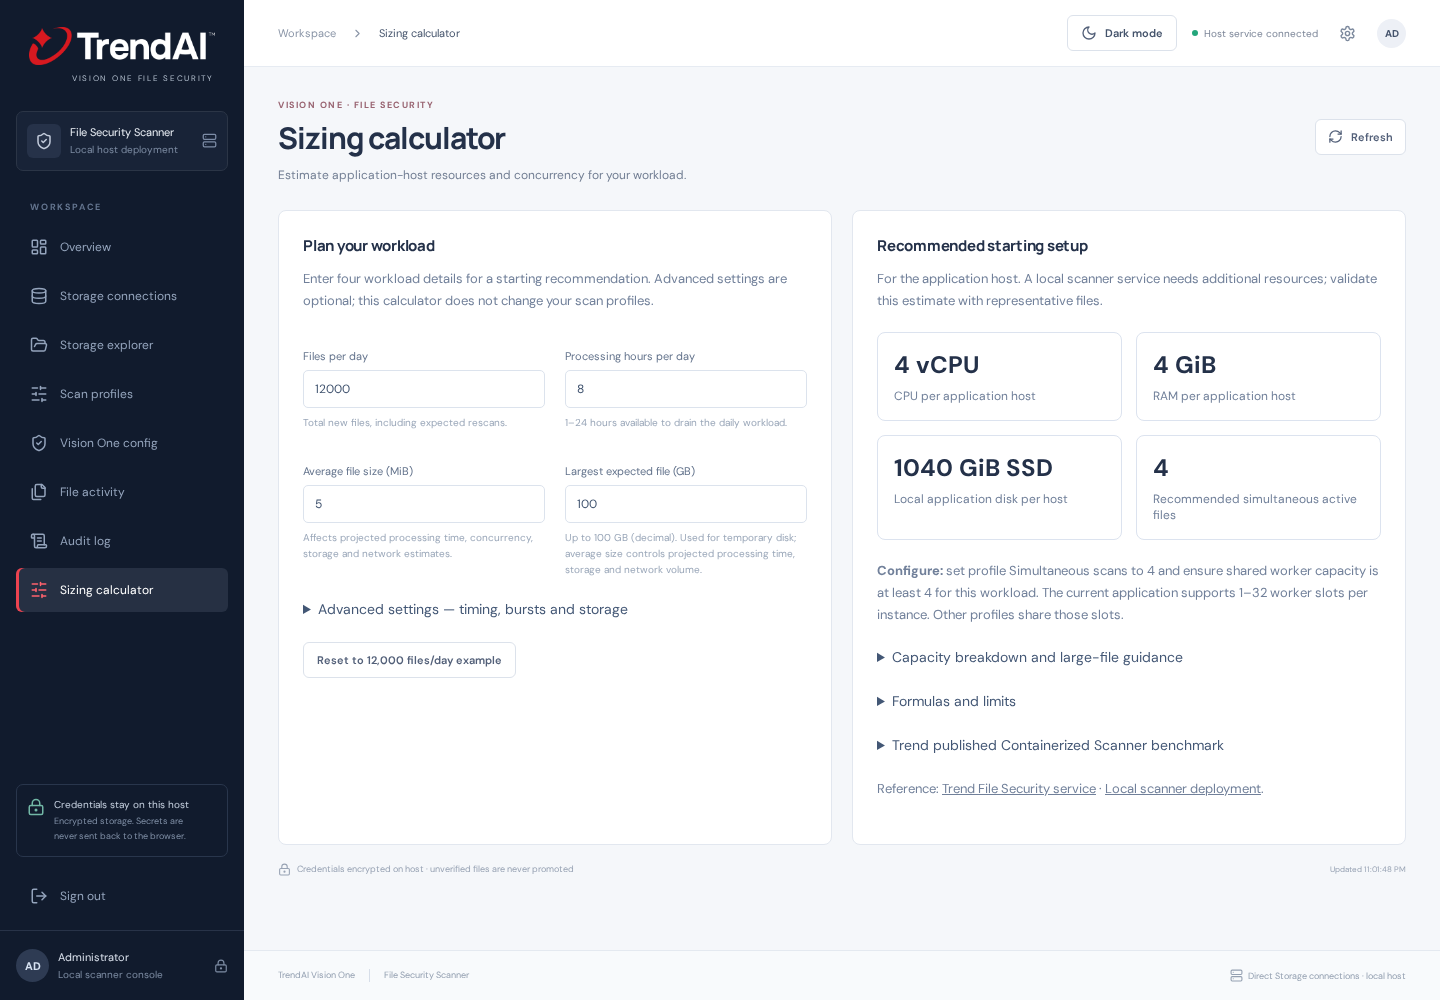
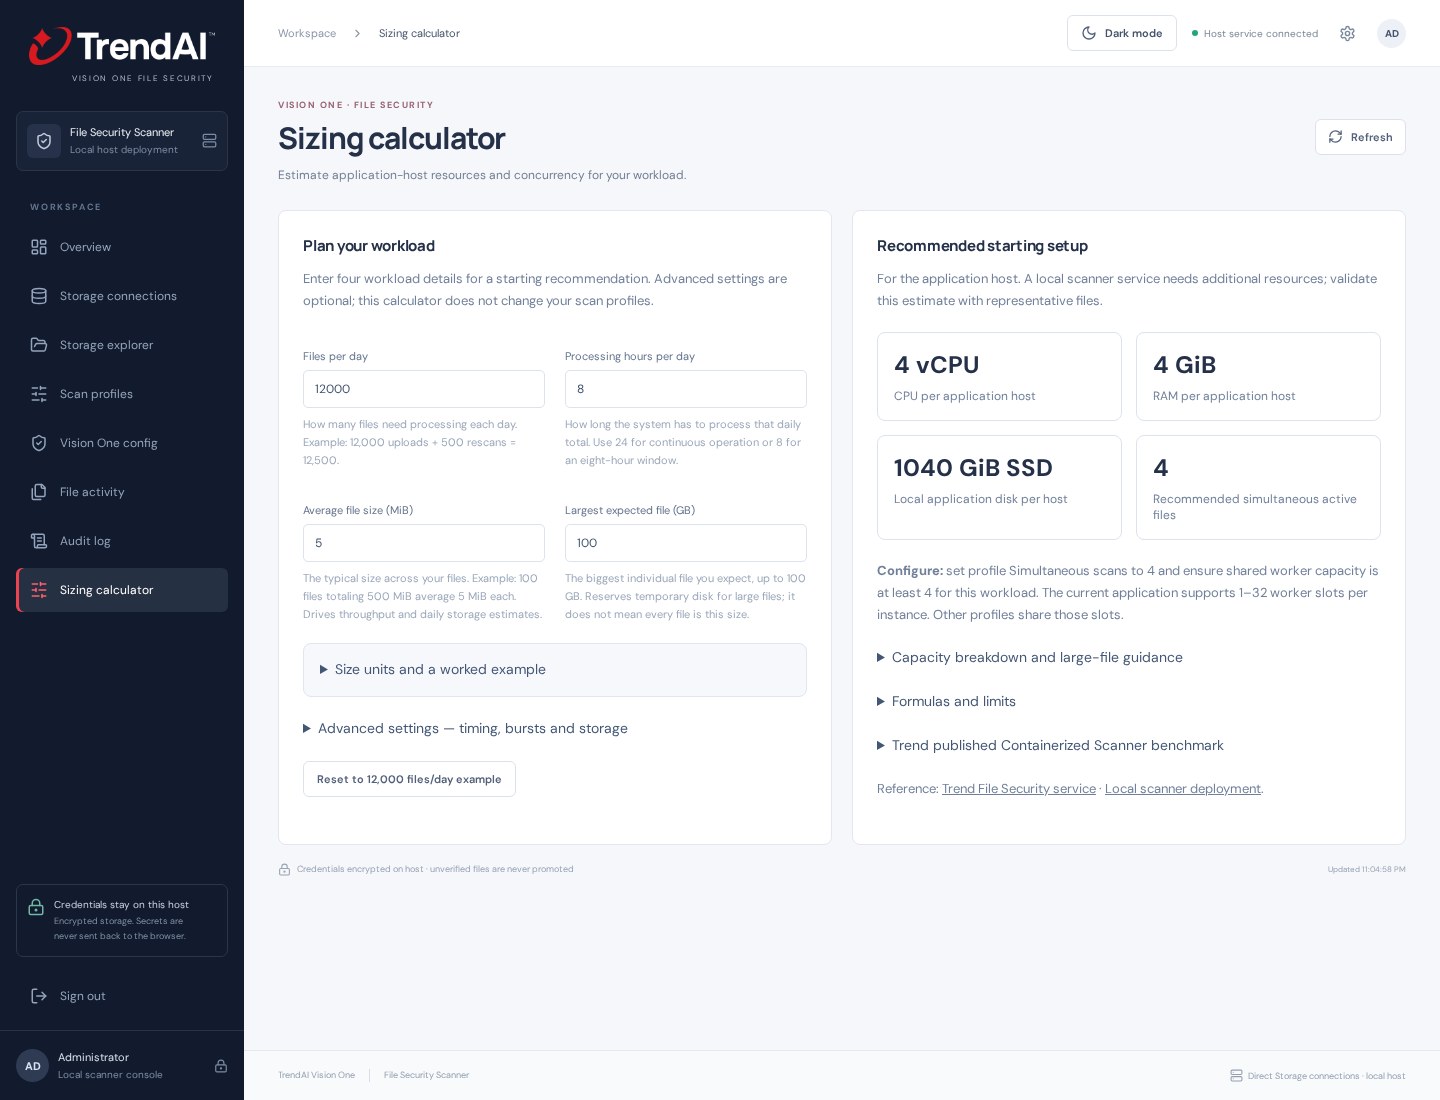
Clarify sizing inputs with live legends and worked examples

diff --git a/web/src/sizing.tsx b/web/src/sizing.tsx
@@ -13,8 +13,8 @@ export function SizingCalculator(){
  const [inputs,setInputs]=useState(sizingDefaults);const r=calculateSizing(inputs);
  const field=(key:keyof typeof sizingDefaults,label:string,help:string)=><label className="field" key={key}>{label}<input type="number" min="0.01" step="any" value={inputs[key]} onChange={e=>setInputs({...inputs,[key]:Number(e.target.value)})}/><small>{help}</small></label>;
  return <div className="sizing-layout"><section className="panel sizing-panel"><h2>Plan your workload</h2><p>Enter four workload details for a starting recommendation. Advanced settings are optional; this calculator does not change your scan profiles.</p><div className="profile-field-pair">
- {field('files','Files per day','Total new files, including expected rescans.')}{field('hours','Processing hours per day','1–24 hours available to drain the daily workload.')}{field('averageMiB','Average file size (MiB)','Affects projected processing time, concurrency, storage and network estimates.')}<label className="field">Largest expected file (GB)<input type="number" min="0.000001" max="100" step="any" value={Number((inputs.maximumMiB*1048576/1e9).toPrecision(12))} onChange={e=>setInputs({...inputs,maximumMiB:Number(e.target.value)*1e9/1048576})}/><small>Up to 100 GB (decimal). Used for temporary disk; average size controls projected processing time, storage and network volume.</small></label></div><details><summary>Advanced settings — timing, bursts and storage</summary><p>Keep these defaults unless you have measured your workload.</p><div className="profile-field-pair">{field('seconds','Measured processing time at reference size (seconds)','Include download, scan, verified routing and deletion. The example is an assumption; replace it with measurements.')}{field('referenceMiB','Reference file size for measured time (MiB)','Default: 1 second for a 5 MiB file. Larger average files scale projected time proportionally; smaller files retain the measured time floor.')}{field('peak','Peak arrival multiplier','4 means arrivals can be four times the daily-window average.')}{field('headroom','Capacity headroom multiplier','2 reserves twice the calculated worker capacity for variability.')}
- {field('historyDays','Local history retention (days)','Keep this aligned with your actual retention process; records are not deleted automatically by this calculator.')}{field('recordKiB','Estimated history per file (KiB)','32 KiB is a planning assumption for job, audit and response data. Verbose results may be larger.')}{field('tempCopies','Temporary copies per active file','2 allows space for captured input and transfer/staging work.')}{field('reserve','Extra disk allowance (%)','25% extra beyond estimated data use.')}{field('storageDays','Destination retention (days)','Remote destination capacity, separate from the application disk.')}{field('outageHours','Source outage buffer (hours)','Remote source space while processing is unavailable.')}</div></details><button className="button" onClick={()=>setInputs(sizingDefaults)}>Reset to 12,000 files/day example</button></section>
+ {field('files','Files per day','How many files need processing each day. Example: 12,000 uploads + 500 rescans = 12,500.')}{field('hours','Processing hours per day','How long the system has to process that daily total. Use 24 for continuous operation or 8 for an eight-hour window.')}{field('averageMiB','Average file size (MiB)','The typical size across your files. Example: 100 files totaling 500 MiB average 5 MiB each. Drives throughput and daily storage estimates.')}<label className="field">Largest expected file (GB)<input type="number" min="0.000001" max="100" step="any" value={Number((inputs.maximumMiB*1048576/1e9).toPrecision(12))} onChange={e=>setInputs({...inputs,maximumMiB:Number(e.target.value)*1e9/1048576})}/><small>The biggest individual file you expect, up to 100 GB. Reserves temporary disk for large files; it does not mean every file is this size.</small></label></div><details className="sizing-legend"><summary>Size units and a worked example</summary><p><strong>MiB</strong> = 1,048,576 bytes; <strong>GiB</strong> = 1,024 MiB. <strong>GB</strong> uses decimal units: 1,000,000,000 bytes. A 100 GB file needs about 93.1 GiB of space for one copy.</p><p><strong>Example:</strong> 12,000 files over 8 hours averages 25 files per minute. A 4× burst means planning for 100 arrivals per minute. At one second per file and a 2× capacity allowance, the estimate is 4 simultaneous workers. Timing defaults are planning assumptions; use your measured full processing time.</p></details><details><summary>Advanced settings — timing, bursts and storage</summary><p>Optional tuning. Start with the defaults, then replace the timing baseline and burst assumptions with your measurements.</p><div className="profile-field-pair">{field('seconds','Measured processing time at reference size (seconds)','Time one representative file from source download through scan, upload, destination verification and source removal. Enter the total seconds.')}{field('referenceMiB','Reference file size for measured time (MiB)',`Size of the file you timed above. Current baseline: ${inputs.seconds} s for ${inputs.referenceMiB} MiB. Estimated time for your average file: ${r?r.effectiveSeconds.toFixed(2):'—'} s.`)}{field('peak','Peak arrival multiplier',`How much faster files arrive during a busy period. Current setting: ${inputs.peak}× the average${r?` ≈ ${(r.peakRate*60).toFixed(1)} files/minute`:''}. Use 1 for steady arrivals.`)}{field('headroom','Capacity headroom multiplier',`Extra processing capacity for slow files and retries. ${inputs.headroom}× ${inputs.headroom>=1?`provides ${Math.round((inputs.headroom-1)*100)}% spare capacity`:'reduces the calculated capacity'}. Example: 2× means twice the required workers.`)}
+ {field('historyDays','Local history retention (days)','Days of scan history to budget on this host. Example: 90 keeps space for about three months. Set actual retention separately in File activity.')}{field('recordKiB','Estimated history per file (KiB)','Local database space per file, including its job, audit and scan response. Start with 32 KiB; detailed archive or verbose results can use more.')}{field('tempCopies','Temporary copies per active file','Disk copies to allow per active file. Start with 2 for captured input and transfer/staging space. Archive expansion needs additional space.')}{field('reserve','Extra disk allowance (%)','Free-space cushion above the calculated disk need. Example: 100 GiB plus 25% becomes 125 GiB before rounding.')}{field('storageDays','Destination retention (days)','How many days routed files stay in destination storage. This estimates remote storage and does not delete files or reserve local SSD space.')}{field('outageHours','Source outage buffer (hours)','How long uploads may build up at the source during an outage. Example: 24 hours budgets one day of arrivals in remote source storage.')}</div></details><button className="button" onClick={()=>setInputs(sizingDefaults)}>Reset to 12,000 files/day example</button></section>
  <section className="panel sizing-panel" aria-live="polite"><h2>Recommended starting setup</h2>{!r?<p role="alert">Enter positive numbers, processing hours no greater than 24, and a maximum file size at least the average and no greater than 100 GB (100 billion bytes).</p>:<><p>For the application host. A local scanner service needs additional resources; validate this estimate with representative files.</p><div className="sizing-metrics">{[[`${r.cpu} vCPU`,'CPU per application host'],[`${r.memory} GiB`,'RAM per application host'],[`${r.disk} GiB SSD`,'Local application disk per host'],[String(r.slots),'Recommended simultaneous active files']].map(([value,label])=><div key={label}><strong>{value}</strong><span>{label}</span></div>)}</div>
  <p><strong>Configure:</strong> set profile Simultaneous scans to {Math.min(r.slots,32)} and ensure shared worker capacity is at least {r.perInstance} for this workload. The current application supports 1–32 worker slots per instance. Other profiles share those slots.</p>{r.instances>1&&<p className="profile-warning">This estimate needs {r.instances} instances. Partition source folders and give each instance its own database/key volume; do not point competing instances at the same source or data directory.</p>}
  <details><summary>Capacity breakdown and large-file guidance</summary>{inputs.maximumMiB>2048&&<p className="profile-warning" role="note"><strong>Large-file capacity planning.</strong> Profiles can submit files up to 100 GB. This estimate does not change profile limits or guarantee the scanner service can fully analyze every format or archive. Set a job timeout, large-file concurrency and oversized-file policy in the scan profile. Enter measured end-to-end processing time for your file mix; the 1-second example is not a large-file throughput estimate.</p>} <table><tbody>{[['Projected time per active file',`${r.effectiveSeconds.toFixed(2)} seconds`],['Application hosts required',String(r.instances)],['Total application CPU',`${r.cpu*r.instances} vCPU`],['Total application RAM',`${r.memory*r.instances} GiB`],['Average arrival rate',`${r.averageRate.toFixed(3)} files/second`],['Peak arrival rate',`${r.peakRate.toFixed(3)} files/second`],['Daily file volume',`${r.dailyGiB.toFixed(1)} GiB`],['Destination retention (remote)',`${r.retainedGiB.toFixed(1)} GiB`],['Outage source buffer (remote)',`${r.outageGiB.toFixed(1)} GiB`],['Aggregate network budget at peak',`${r.networkMbps.toFixed(1)} Mbps`]].map(([label,value])=><tr key={label}><th>{label}</th><td>{value}</td></tr>)}</tbody></table>

diff --git a/web/e2e/sizing.spec.ts b/web/e2e/sizing.spec.ts
@@ -5,5 +5,5 @@ test('12k sizing assumptions and invalid inputs',()=>{
 });
 test('sizing menu and storage results use the current vocabulary',async({page})=>{
  await page.goto('/');await page.getByRole('heading',{name:/^(Set up your scanner|Welcome back)$/}).waitFor();if(await page.getByRole('button',{name:'Create administrator & continue'}).isVisible()){await page.getByLabel('Create administrator password').fill('test-only-password-2026');await page.getByLabel('Confirm password').fill('test-only-password-2026');await page.getByRole('button',{name:'Create administrator & continue'}).click()}else{await page.waitForTimeout(2100);await page.getByLabel('Administrator password').fill('test-only-password-2026');await page.getByRole('button',{name:'Sign in',exact:true}).click()}
- await expect(page.getByRole('heading',{name:'Security overview'})).toBeVisible();await expect(page.locator('.brand-product')).toHaveText('VISION ONE FILE SECURITY');await page.getByRole('button',{name:'Sizing calculator',exact:true}).click();await expect(page.getByLabel('Files per day',{exact:false})).toHaveValue('12000');await expect(page.locator('.sizing-metrics').getByText('4 vCPU',{exact:true})).toBeVisible();await expect(page.getByText('1040 GiB SSD',{exact:true})).toBeVisible();await expect(page.getByLabel('Largest expected file (GB)')).toHaveValue('100');await expect(page.getByText('Large-file capacity planning.',{exact:true})).not.toBeVisible();await page.getByText('Advanced settings — timing, bursts and storage',{exact:true}).click();await page.getByText('Capacity breakdown and large-file guidance',{exact:true}).click();await expect(page.getByText('Large-file capacity planning.',{exact:true})).toBeVisible();await page.getByLabel('Average file size (MiB)',{exact:false}).fill('1000');await expect(page.getByText('200.00 seconds',{exact:true})).toBeVisible();await expect(page.getByText('18 vCPU',{exact:true})).toBeVisible();await page.getByRole('button',{name:'Storage explorer',exact:true}).click();await expect(page.getByRole('columnheader',{name:'SCAN RESULT',exact:true})).toBeVisible();await expect(page.getByRole('columnheader',{name:'RESULT TAGS',exact:true})).toBeVisible();await expect(page.getByText('COMPLETION MARKER',{exact:true})).toHaveCount(0);
+ await expect(page.getByRole('heading',{name:'Security overview'})).toBeVisible();await expect(page.locator('.brand-product')).toHaveText('VISION ONE FILE SECURITY');await page.getByRole('button',{name:'Sizing calculator',exact:true}).click();await expect(page.getByLabel('Files per day',{exact:false})).toHaveValue('12000');await expect(page.locator('.sizing-metrics').getByText('4 vCPU',{exact:true})).toBeVisible();await expect(page.getByText('1040 GiB SSD',{exact:true})).toBeVisible();await expect(page.getByLabel('Largest expected file (GB)')).toHaveValue('100');await expect(page.getByText('Large-file capacity planning.',{exact:true})).not.toBeVisible();await page.getByText('Advanced settings — timing, bursts and storage',{exact:true}).click();await page.getByText('Capacity breakdown and large-file guidance',{exact:true}).click();await expect(page.getByText('Large-file capacity planning.',{exact:true})).toBeVisible();await page.getByLabel('Average file size (MiB)',{exact:false}).fill('1000');await expect(page.getByText('200.00 seconds',{exact:true})).toBeVisible();await expect(page.getByText('18 vCPU',{exact:true})).toBeVisible();await page.getByLabel('Reference file size for measured time (MiB)',{exact:false}).fill('10');await page.getByLabel('Measured processing time at reference size (seconds)',{exact:false}).fill('2');await expect(page.getByText('Current baseline: 2 s for 10 MiB.',{exact:false})).toBeVisible();await page.getByLabel('Peak arrival multiplier',{exact:false}).fill('10');await expect(page.getByText('Current setting: 10× the average',{exact:false})).toBeVisible();await page.getByRole('button',{name:'Storage explorer',exact:true}).click();await expect(page.getByRole('columnheader',{name:'SCAN RESULT',exact:true})).toBeVisible();await expect(page.getByRole('columnheader',{name:'RESULT TAGS',exact:true})).toBeVisible();await expect(page.getByText('COMPLETION MARKER',{exact:true})).toHaveCount(0);
 });

diff --git a/web/src/style.css b/web/src/style.css
@@ -76,3 +76,5 @@
 .job-row-actions{display:flex;align-items:center;gap:10px}.history-visibility select{padding:6px;margin-left:7px;font-size:11px}
 
 .scan-metrics{display:grid;grid-template-columns:repeat(4,minmax(0,1fr));gap:24px}.scan-metrics>div{min-width:0}@media(max-width:1050px){.scan-metrics{grid-template-columns:repeat(2,minmax(0,1fr))}}
+
+.sizing-legend{padding:14px 16px;border:1px solid var(--dark-border,#dfe6ef);border-radius:8px;background:var(--dark-surface-alt,#f6f8fc)}.sizing-legend p{margin-top:12px;font-size:12px}.sizing-panel .field small{font-size:11px;line-height:1.65}

diff --git a/docs/user-guide.md b/docs/user-guide.md
@@ -238,3 +238,7 @@ Source discovery is recursive by default. Azure Blob lists every blob under the 
 A `runtimecheck/` destination folder can remain from the optional runtime validation utility. It holds earlier test results, is not a scanner component, and is not needed for normal operation. The utility runs only when explicitly invoked. Hide its historical records if desired; remove stored test files only after confirming they are no longer needed. The application's Hide record action does not delete storage objects.
 
 See [transfer tuning](performance-tuning.md) for queue controls and file timing details.
+
+Sizing fields include examples for daily file counts, processing windows, average versus maximum sizes, and storage allowances. Expand **Size units and a worked example** for MiB/GB conversions and the 12,000-file example. Advanced timing, peak-arrival and spare-capacity descriptions reflect the values you enter.
+
+![Sizing units and worked example](images/sizing-legend.png)
